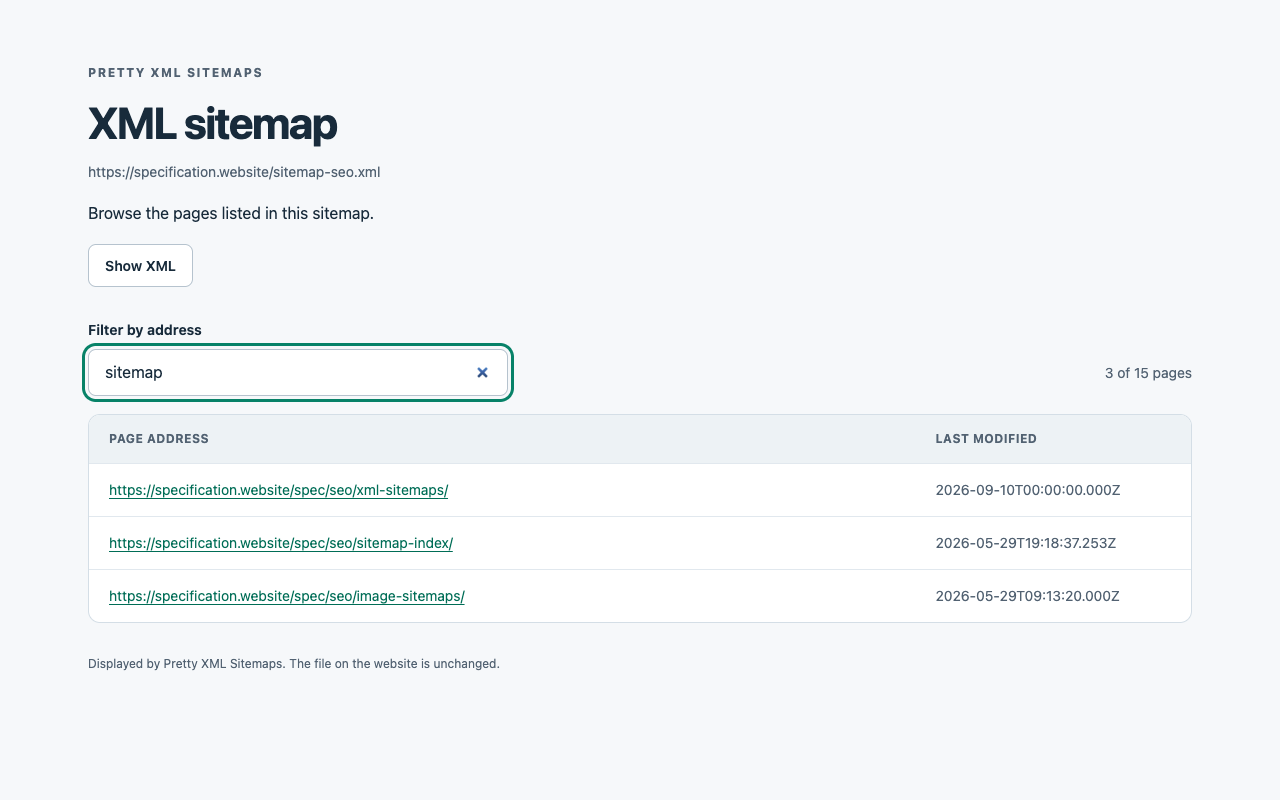
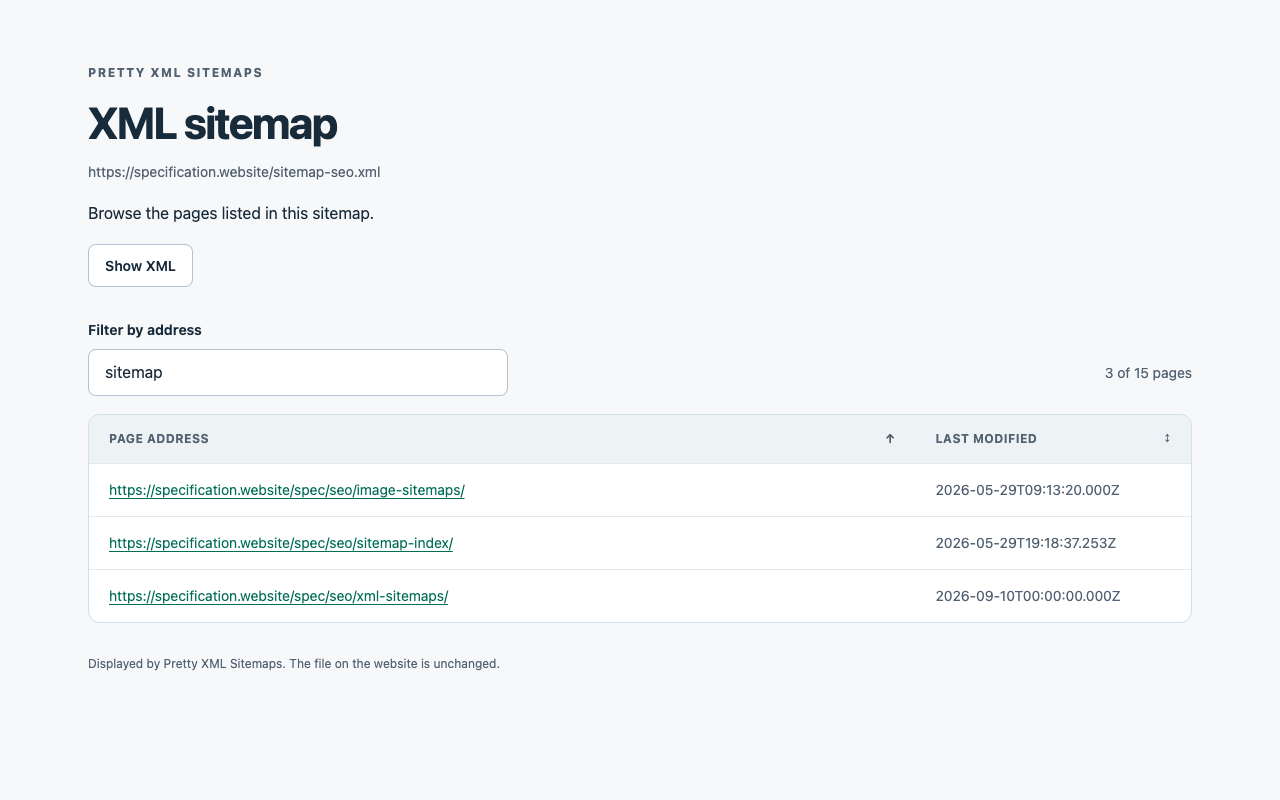
Release Pretty XML Sitemaps 0.2.0 with table sorting

diff --git a/src/content/pages/pretty-xml-sitemaps.md b/src/content/pages/pretty-xml-sitemaps.md
@@ -8,7 +8,7 @@ seo:
 ---
 Pretty XML Sitemaps is a free Chrome extension that turns XML sitemaps and sitemap indexes into clear, searchable tables. It works automatically when you open a sitemap, without XSLT.
 
-[Download Pretty XML Sitemaps 0.1.0](/downloads/pretty-xml-sitemaps-0.1.0.zip)
+[Download Pretty XML Sitemaps 0.2.0](/downloads/pretty-xml-sitemaps-0.2.0.zip)
 
 For now, install it manually using the steps below. The extension is not yet listed in the Chrome Web Store.
 
@@ -19,6 +19,7 @@ Find the page you need without scrolling through raw XML:
 - Search for part of an address across the whole sitemap.
 - Click a link to open a page or a child sitemap.
 - See the modification dates supplied by the site.
+- Click either table header to sort by address or date. Click again to reverse the order.
 - Browse long lists in pages of 100 entries.
 - Switch between the table and the XML data.
 
